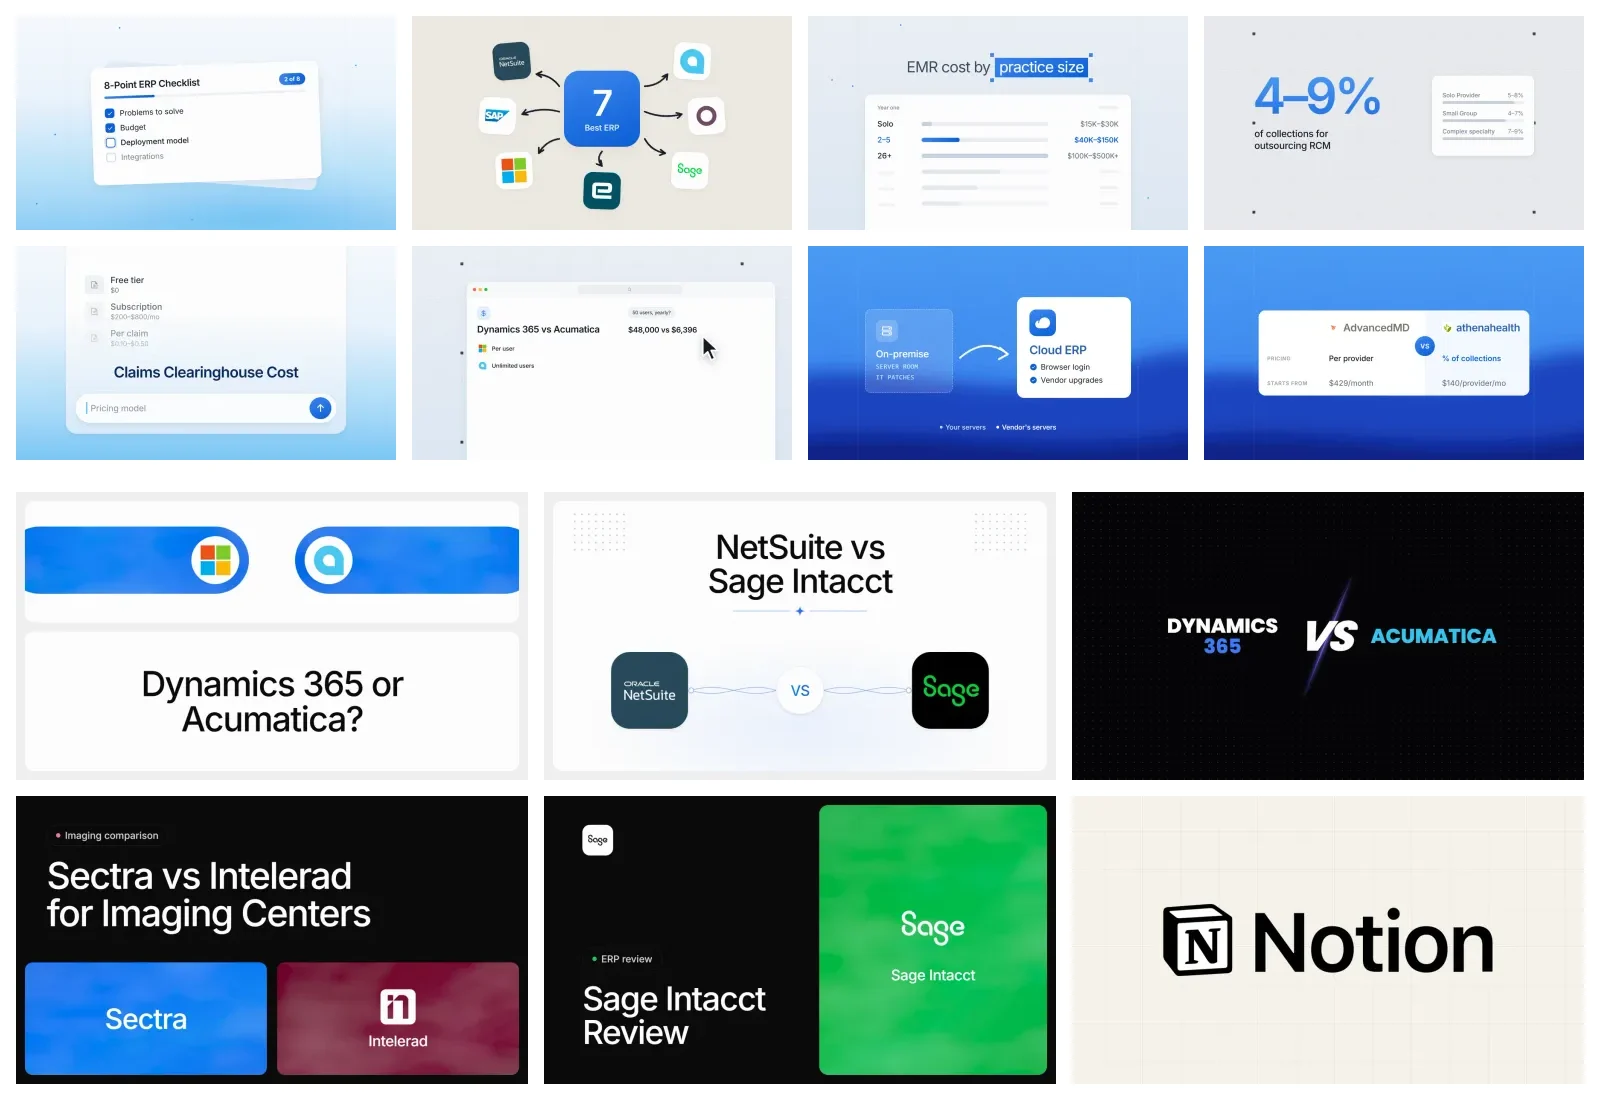
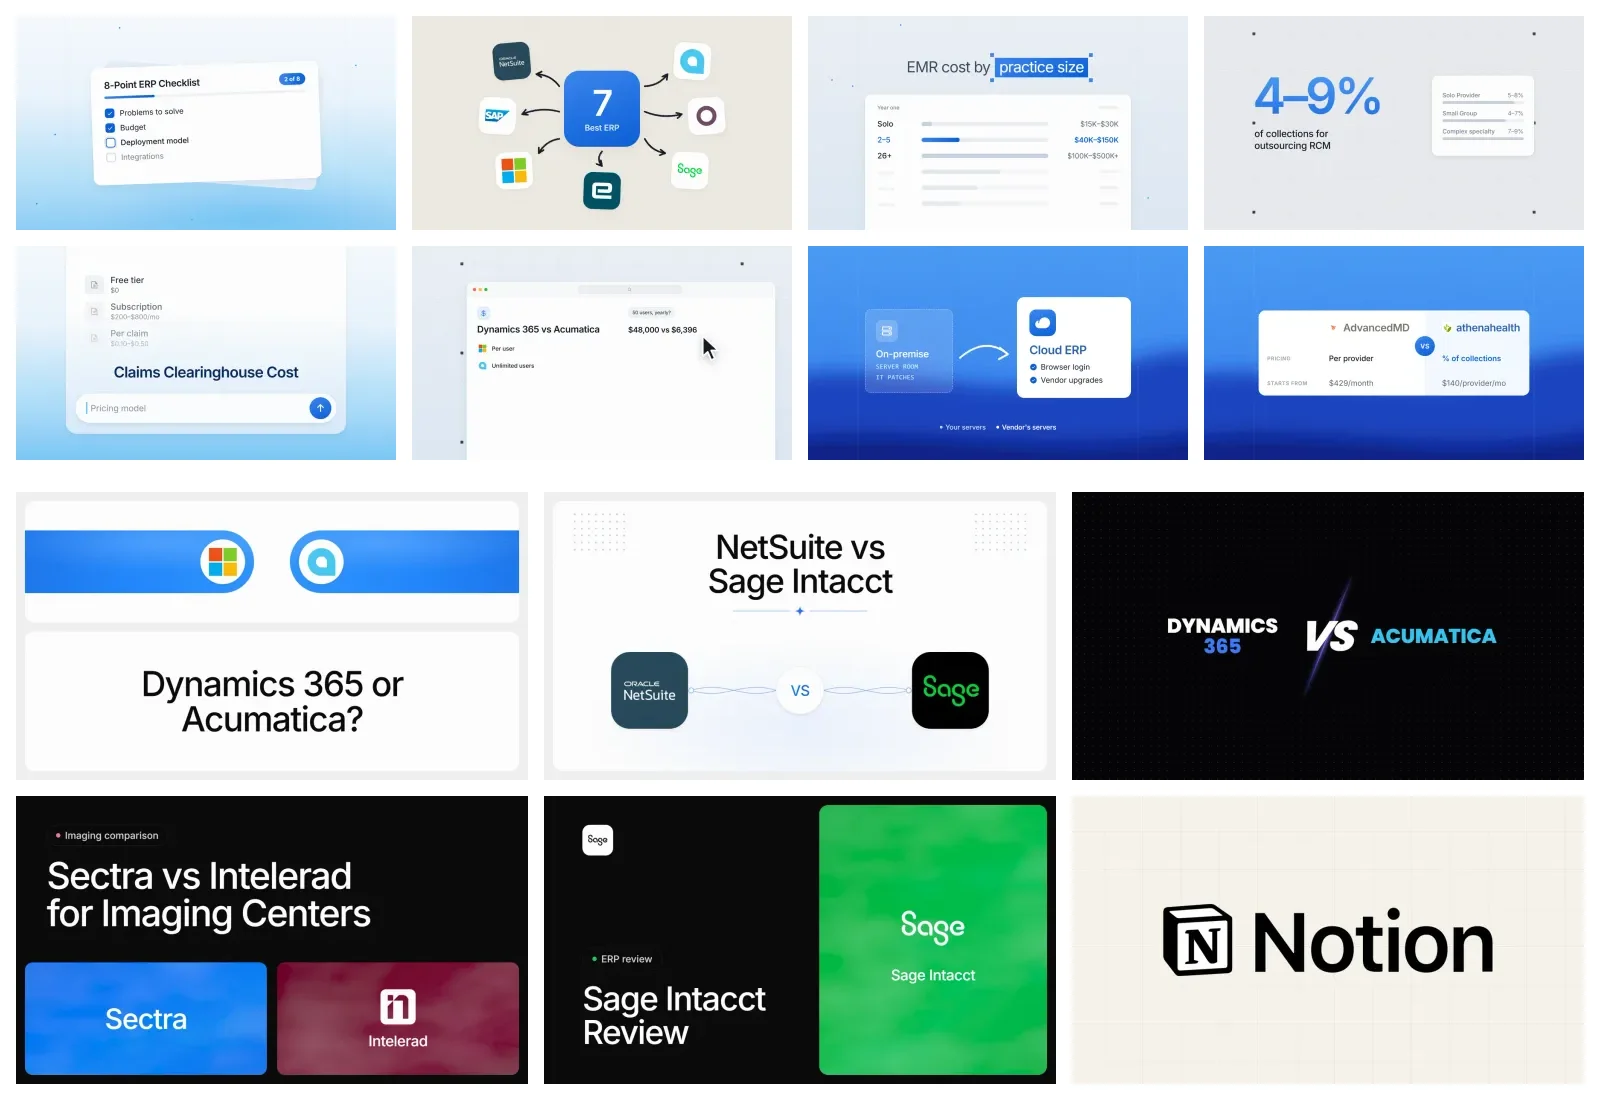
versus/pills: shapes match the reference
- Pills run off the panel's outer edges (flat cuts); rounded tips 112px apart (57% of the 196px height, measured on the reference)
- Surface: a subtle tonal gradient, one soft highlight and fine noise instead of watercolour blotches
- Docs, QA checklist, reference image and README hero updated

Changed region(s): [[0.0, 0.4636, 0.3438, 0.5564]]

diff --git a/skills/blog-featured-images/references/lessons.md b/skills/blog-featured-images/references/lessons.md
@@ -63,7 +63,7 @@ Read this before every batch.
 - **Not every QA fix is wanted:** a tighter window, a pointer callout and bigger logo badges were all rejected ("before is better"). When a fix changes the look, show it next to the original first.
 - **The user dislikes `versus/logos`** (removed) and loves `versus/slash`, `versus/connect` and `versus/duo` (each may repeat up to 5 times per category). Single-product articles use `logotype` when the logo is black with strong typography (up to 2 per category), otherwise `dark` (up to 3).
 - **Match the user's references exactly, detail by detail:** the duo and dark layouts drop the site mark (dark shows the product's own icon in `#0A0A0B` on a white tile), dark's text starts at x 120 for balance, and logotype's icon sits on a black tile. Missing one detail from a reference cost a review round each time.
-- **Review fixes that stayed:** the focus card is wide (1120px) with its heading nudged 3px left to look centred; the stat number is a soft blue gradient, not navy; the prompt paints a light-blue gradient field with a strong glow (a plain field looked bland); slash's dot grid stays clear behind the names; an X vs Y table may go on the vibrant blue; one weight, Inter 500 Medium, for all text in pills, connect, duo and dark; the pills headline is all near-black and its logos always sit on white circles (pills only for brands whose logo works on white, up to 2 per category); the connect headline is all near-black and its tiles are the brands' own app icons in their original colours (connect only when both brands have one).
+- **Review fixes that stayed:** the focus card is wide (1120px) with its heading nudged 3px left to look centred; the stat number is a soft blue gradient, not navy; the prompt paints a light-blue gradient field with a strong glow (a plain field looked bland); slash's dot grid stays clear behind the names; an X vs Y table may go on the vibrant blue; one weight, Inter 500 Medium, for all text in pills, connect, duo and dark; the pills headline is all near-black, its logos always sit on white circles, and its shapes copy the reference exactly (flat outer cuts, tips 57% of the height apart, subtle gradient + fine noise; measure the reference's pixels rather than eyeballing) (pills only for brands whose logo works on white, up to 2 per category); the connect headline is all near-black and its tiles are the brands' own app icons in their original colours (connect only when both brands have one).
 - **Logo chain surprises:** a brand's "icon" can be a stale anniversary badge (Availity) or a pale grey wordmark (Sectra). Check every logo by eye; use the official site icon from the brand's website when needed.
 - **Work in the project folder.** One batch rendered into a temporary scratch folder; delivered images must live in the project's `featured-images/` (finalize also keeps a copy in `~/.blog-featured-images/delivered/`).
 - **Fix the skill, then publish:** renderer fixes made during a batch go into the skill and are pushed, never left as local patches.

diff --git a/skills/blog-featured-images/references/design-language.md b/skills/blog-featured-images/references/design-language.md
@@ -82,7 +82,7 @@ Bold names or a big, tight headline carry the image, with colour in a few clean 
 
 | Layout | What you see | Best for |
 |---|---|---|
-| `versus/pills` | grey frame, two white panels: on top, two blue pills face each other with the two logos on **white circles** at the tips (never a solid app icon); below, the question ("A or B?") all in near-black `#0A0A0B`, no blue words | X vs Y, only when both products have a logo that sits on white ("PILLS LOGO CHECK FAILED" otherwise); may repeat up to 2 times per category |
+| `versus/pills` | grey frame, two white panels: on top, two blue pills face each other: each runs off the panel's outer edge (a flat cut, no rounded outer end), the rounded tips sit 112px apart (57% of the 196px pill height, as in the reference), and the surface is a subtle tonal gradient toward the tip with one soft highlight and fine noise (no watercolour blotches); the two logos sit on **white circles** centred in the tips (never a solid app icon); below, the question ("A or B?") all in near-black `#0A0A0B`, no blue words | X vs Y, only when both products have a logo that sits on white ("PILLS LOGO CHECK FAILED" otherwise); may repeat up to 2 times per category |
 | `versus/connect` | grey frame, one white panel: a centred headline all in near-black `#0A0A0B` (no blue words) and a small sparkle divider; two big tiles, each the brand's **own app icon in its original colours, edge to edge with its own background colour** (never a mark on a white tile), linked by thin crossing strands to a white **VS** circle; small dot patches in the top corners | X vs Y, only when both brands have a solid app icon with its own background colour ("CONNECT LOGO CHECK FAILED" otherwise); may repeat up to 5 times per category |
 | `versus/slash` | black field with a fine dot grid; the two names in heavy caps (a coloured part each); a big italic **VS** with a glowing diagonal streak | X vs Y (vibrant) |
 | `versus/duo` | black field, a tag pill and a big Medium (500) white headline top-left (no site mark); two watercolour panels below, each in **that brand's own colour** (the subtle blue when the brand has no vivid colour) with the brand's mark turned white and its name. A low-resolution wordmark is replaced by the name in clean white type | X vs Y (vibrant) |

diff --git a/skills/blog-featured-images/references/agents.md b/skills/blog-featured-images/references/agents.md
@@ -67,7 +67,7 @@ Return per image: PASS or FAIL, and for each FAIL the rule broken and the exact 
 
 **2. Background fits.** The field flatters the illustration (the layout's fit list). On the vibrant blue: only checklist, versus/table, window or before-after/flow, with no drop shadows. On light fields: minimal, field-tinted shadows; grain on `sky`, `paper`, `g5`, none on `cream`.
 
-**2b. Headline layouts** (`versus/pills`, `versus/connect`, `versus/slash`, `versus/duo`, `dark`). Every text element is Inter 500 Medium (slash: Poppins caps); the pills and connect headlines are all near-black; both pills logos sit on white circles; both connect tiles are the brands' own app icons in their original colours, edge to edge, and current (not an anniversary badge); blue shapes are the subtle near-solid blue; a white design sits in the grey frame; black designs count as vibrant; every word stays inside x 210–1390 (`dark`'s text column starts at x 120, and its top-left tile is the product's own icon in #0A0A0B black, not the site mark).
+**2b. Headline layouts** (`versus/pills`, `versus/connect`, `versus/slash`, `versus/duo`, `dark`). Every text element is Inter 500 Medium (slash: Poppins caps); the pills and connect headlines are all near-black; the pills run off the outer edges with flat cuts, tips ~112px apart, a subtle gradient with fine noise, and both logos sit on white circles; both connect tiles are the brands' own app icons in their original colours, edge to edge, and current (not an anniversary badge); blue shapes are the subtle near-solid blue; a white design sits in the grey frame; black designs count as vibrant; every word stays inside x 210–1390 (`dark`'s text column starts at x 120, and its top-left tile is the product's own icon in #0A0A0B black, not the site mark).
 
 **2c. Logotype.** The article is about one product and its logo is black (icon and wordmark) with strong typography; the icon sits in white on a black rounded tile beside the wordmark (or keeps its own tile), sharp, large and centred on cream; no other text; at most 2 per category (coloured logos use `dark`).
 

diff --git a/skills/blog-featured-images/SKILL.md b/skills/blog-featured-images/SKILL.md
@@ -63,7 +63,7 @@ Read these before your first image in a session:
 
 | Layout | Shows | Best for |
 |---|---|---|
-| `versus/pills` | two facing blue pills with the logos on **white circles** at the tips, the question below in near-black | X vs Y, only when both products have a logo that sits on white ("PILLS LOGO CHECK FAILED" otherwise); may repeat up to 2 times per category |
+| `versus/pills` | two facing blue pills (flat cuts at the outer edges, rounded tips a little over half a pill's height apart, a subtle gradient with fine noise) with the logos on **white circles** at the tips, the question below in near-black | X vs Y, only when both products have a logo that sits on white ("PILLS LOGO CHECK FAILED" otherwise); may repeat up to 2 times per category |
 | `versus/connect` | centred near-black headline, each brand's **own app icon in its original colours** filling its tile, linked to a VS circle, dot patches | X vs Y, only when both brands have a solid app icon with its own background colour ("CONNECT LOGO CHECK FAILED" otherwise); may repeat up to 5 times per category |
 | `versus/slash` | black, dot grid, heavy-caps names, italic VS with a glowing streak | X vs Y (vibrant) |
 | `versus/duo` | black, tag pill, big white headline; two watercolour panels in each brand's colour with its white logo | X vs Y (vibrant) |

diff --git a/README.md b/README.md
@@ -115,7 +115,7 @@ Or invoke `/blog-featured-images`. Each article gets a `featured-images/<slug>/`
 
 | Layout | Best for |
 |---|---|
-| `versus/pills` | X vs Y: two facing pills with the logos on white circles, the question below in black; only when both logos work on white; up to 2 per category |
+| `versus/pills` | X vs Y: two facing pills (flat outer cuts, subtle gradient with fine noise) with the logos on white circles, the question below in black; only when both logos work on white; up to 2 per category |
 | `versus/connect` | X vs Y: each brand's own app icon in its original colours, linked to a VS circle, black headline; only when both brands have an app icon (a favourite: may repeat up to 5 times per category) |
 | `versus/slash` | X vs Y on black: bold names, italic VS (a favourite: may repeat up to 5 times per category) |
 | `versus/duo` | X vs Y on black: two panels in each brand's colour with white logos (a favourite: may repeat up to 5 times per category) |
